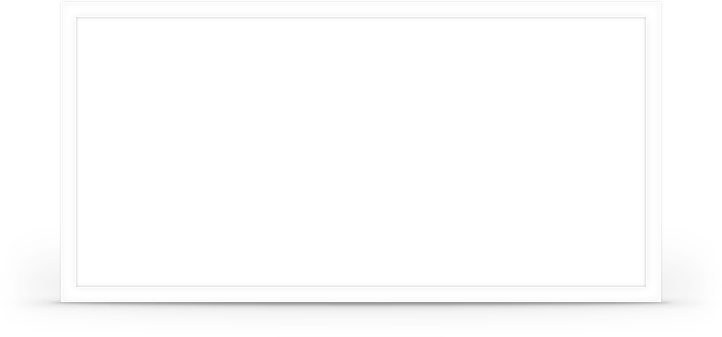
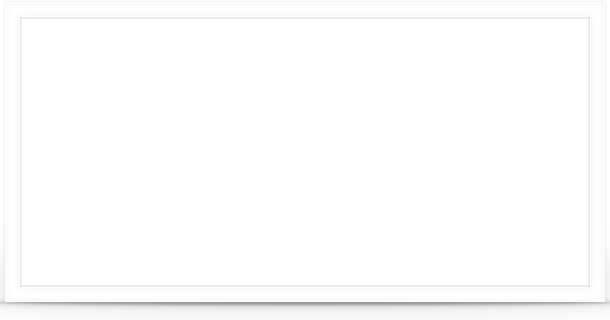
added "math  to orman and pascal themes

Changed region(s): [[0.0, 0.875, 1.0, 0.9688]]

diff --git a/collective/plonetruegallery/browser/files/nivoslider/css/pascal/style.css b/collective/plonetruegallery/browser/files/nivoslider/css/pascal/style.css
@@ -1,5 +1,3 @@
-/* @override http://localhost:8080/test/portal_css/Sunburst%20Theme/++resource++plonetruegallery.resources/style.css */
-
 /*
 Skin Name: Pascal Theme
 Skin URI: http://nivo.dev7studios.com
@@ -14,14 +12,15 @@ Author URI: http://dev7studios.com
 
 .slider-wrapper {
     background:url(++resource++plonetruegallery.resources/nivoslider/css/pascal/slider.png) no-repeat;
-    margin:0 auto;
-    padding-top:17px;
+    margin:0 0 70px 0;
+    padding-top:15px;
     position:relative;
+    background-size: 100% 105% !important;
 }
 
  .nivoSlider {
     position:relative;
-    margin-left:19px;
+    margin:auto;
     background:url(++resource++plonetruegallery.resources/nivoslider/css/pascal/loading.gif) no-repeat 50% 50%;
 }
  .nivoSlider img {
@@ -39,7 +38,7 @@ Author URI: http://dev7studios.com
  .nivo-controlNav {
     height:40px;
     position:absolute;
-    bottom:-42px;
+    bottom:-75px;
     z-index:20;
     width: 100%;
     text-align: center;
@@ -62,7 +61,7 @@ Author URI: http://dev7studios.com
 }
 
  .nivo-caption {
-    bottom:80px;
+    bottom:40px;
     left:auto;
     right:0px;
     width:auto;

diff --git a/collective/plonetruegallery/browser/files/nivoslider/css/orman/style.css b/collective/plonetruegallery/browser/files/nivoslider/css/orman/style.css
@@ -1,3 +1,5 @@
+/* @override http://localhost:8080/nivo/dfasdfasdfasdf/++resource++plonetruegallery.resources/nivoslider/css/orman/style.css */
+
 /*
 Skin Name: Orman Theme
 Skin URI: http://nivo.dev7studios.com
@@ -11,15 +13,16 @@ Author URI: http://dev7studios.com
 */
 
 .slider-wrapper {
-    background:url(++resource++plonetruegallery.resources/nivoslider/css/orman/slider.png) no-repeat;
+    background:url(++resource++plonetruegallery.resources/nivoslider/css/orman/slider.png) no-repeat center top;
     margin:0 auto;
-    padding-top:18px;
+    padding: 28px 5px 0 5px;
     position:relative;
+    background-size: 100% 100%;
 }
 
  .nivoSlider {
     position:relative;
-    margin-left:77px;
+    margin: auto;
     background:url(++resource++plonetruegallery.resources/nivoslider/css/orman/loading.gif) no-repeat 50% 50%;
 }
  .nivoSlider img {
@@ -88,6 +91,6 @@ Author URI: http://dev7studios.com
     height:111px;
     position:absolute;
     top:-3px;
-    left:56px;
-    z-index:300;
+    left:0px;
+    z-index:99;
 }

diff --git a/collective/plonetruegallery/browser/views/display.py b/collective/plonetruegallery/browser/views/display.py
@@ -705,8 +705,12 @@ $(window).load(function() {
         return u"""
         <style>
         .nivoSlider {
-        height: %(height)s !important;
-        width: %(width)s !important;
+        height: %(height)ipx !important;
+        width: %(width)ipx !important;
+        }
+        div.slider-wrapper  {
+        height: %(imageheight)ipx;
+        width: %(imagewidth)ipx;
         }
         a.nivo-imageLink {
         height: 200px;
@@ -717,6 +721,8 @@ $(window).load(function() {
 """ % {
         'height': self.settings.nivoslider_height,
         'width': self.settings.nivoslider_width,
+        'imageheight': self.settings.nivoslider_height + 50,
+        'imagewidth': self.settings.nivoslider_width + 40,
         'nivoslider_theme': self.settings.nivoslider_theme,
        }
 NivosliderSettings = createSettingsFactory(NivosliderDisplayType.schema)

diff --git a/collective/plonetruegallery/interfaces.py b/collective/plonetruegallery/interfaces.py
@@ -335,16 +335,15 @@ class IS3sliderDisplaySettings(IBaseSettings):
 
 class INivosliderDisplaySettings(IBaseSettings):
 
-    nivoslider_width = schema.TextLine(
-        title=_(u"label_nivoslider_width", default=u"Width of the gallery"),
-        default=u"600px"
+    nivoslider_width = schema.Int(
+        title=_(u"label_nivoslider_width", default=u"Width of the gallery in pixels"),
+        default=600
     )
 
-    nivoslider_height = schema.TextLine(
+    nivoslider_height = schema.Int(
         title=_(u"label_nivoslider_height",
-            default=u"Height of the gallery. "
-                    u"You can not set the height in %"),
-        default=u"350px"
+            default=u"Height of the gallery in pixels"),
+        default=350
     )
 
     nivoslider_theme = schema.Choice(
